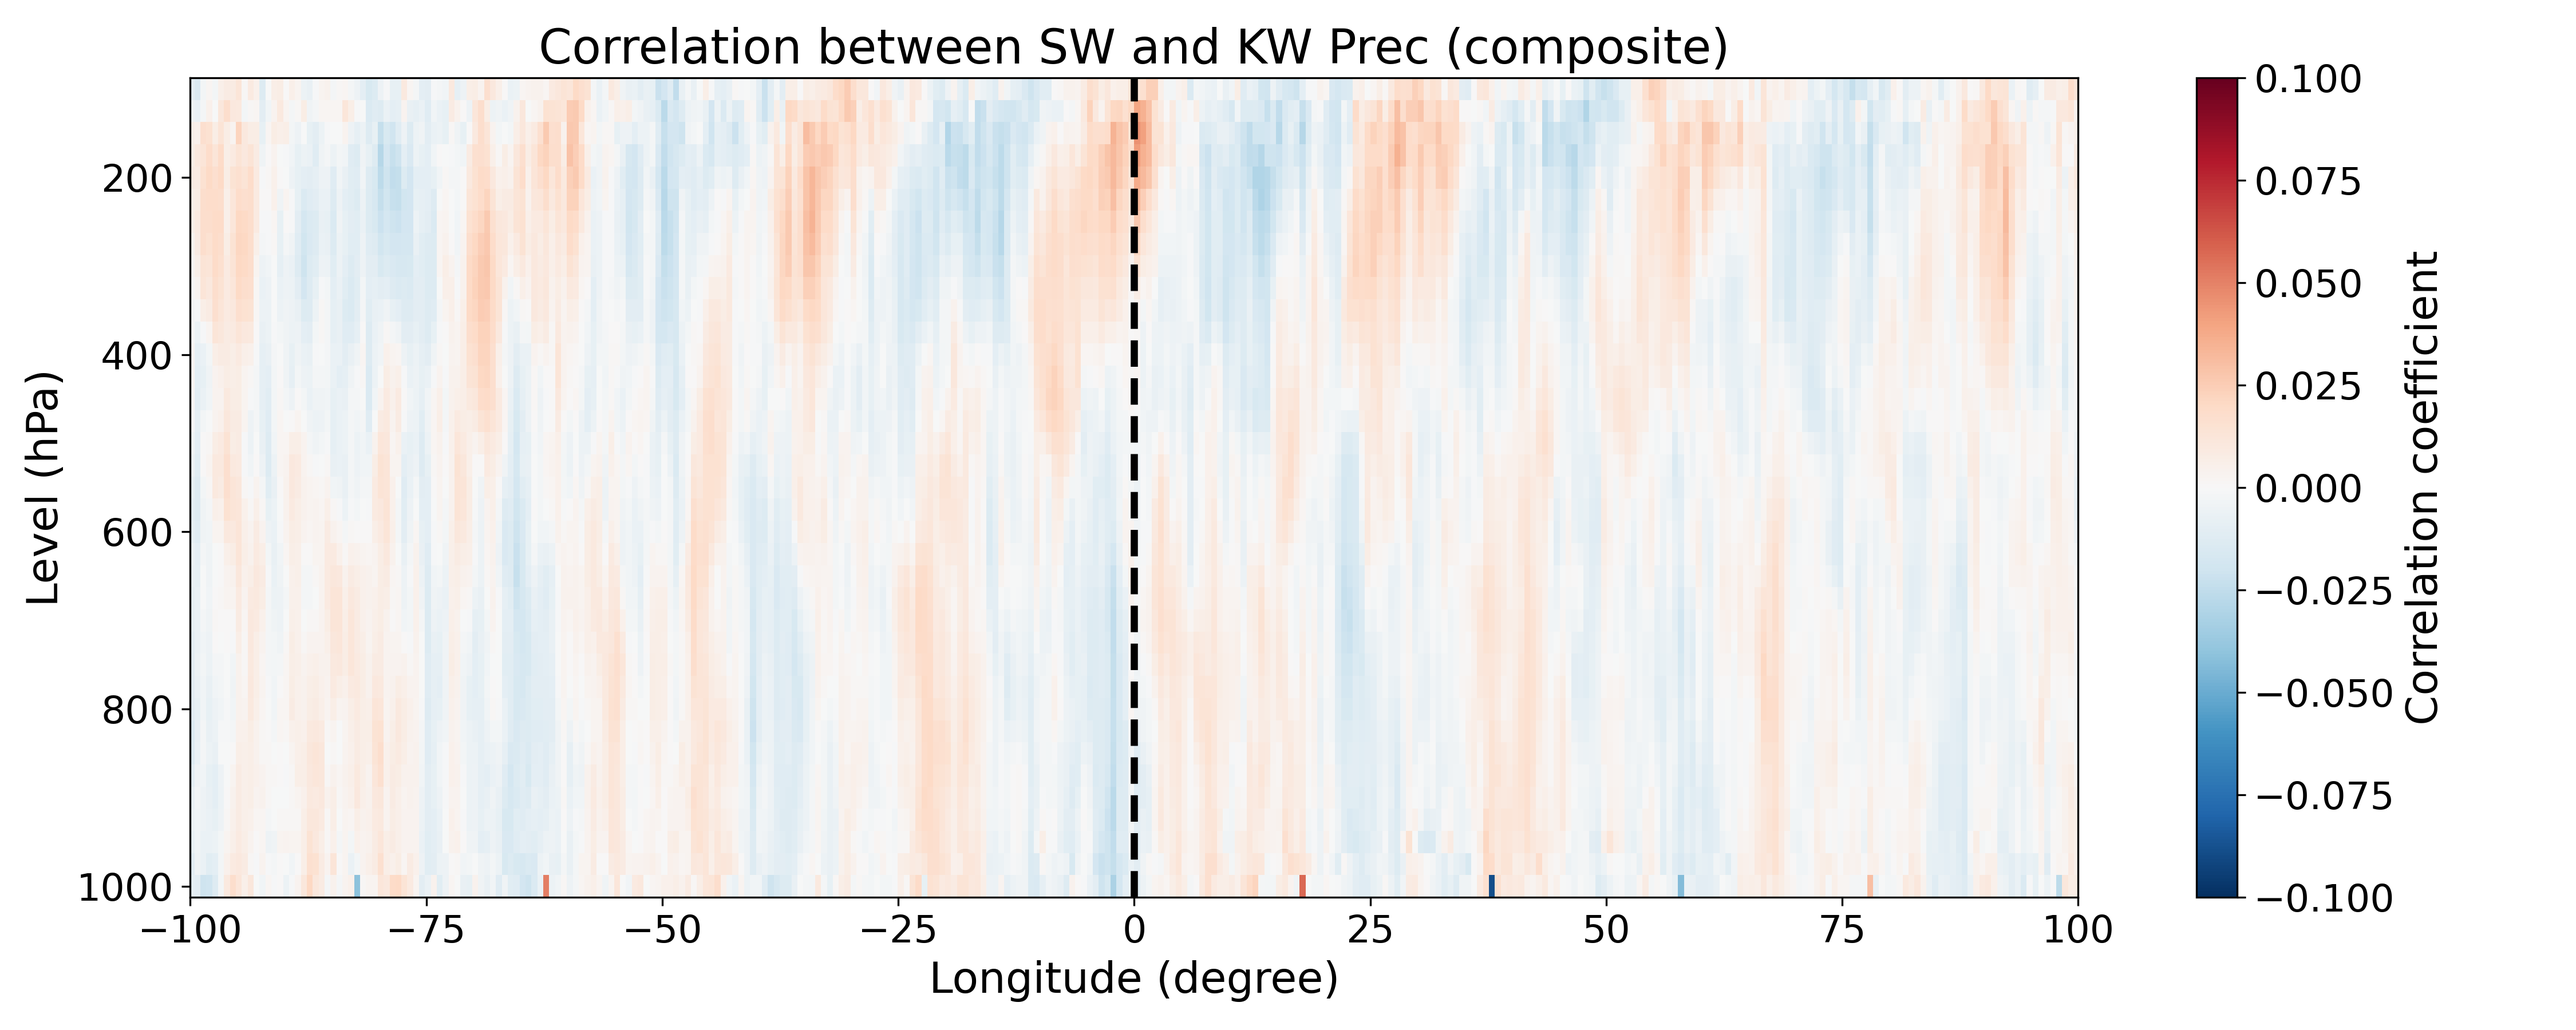
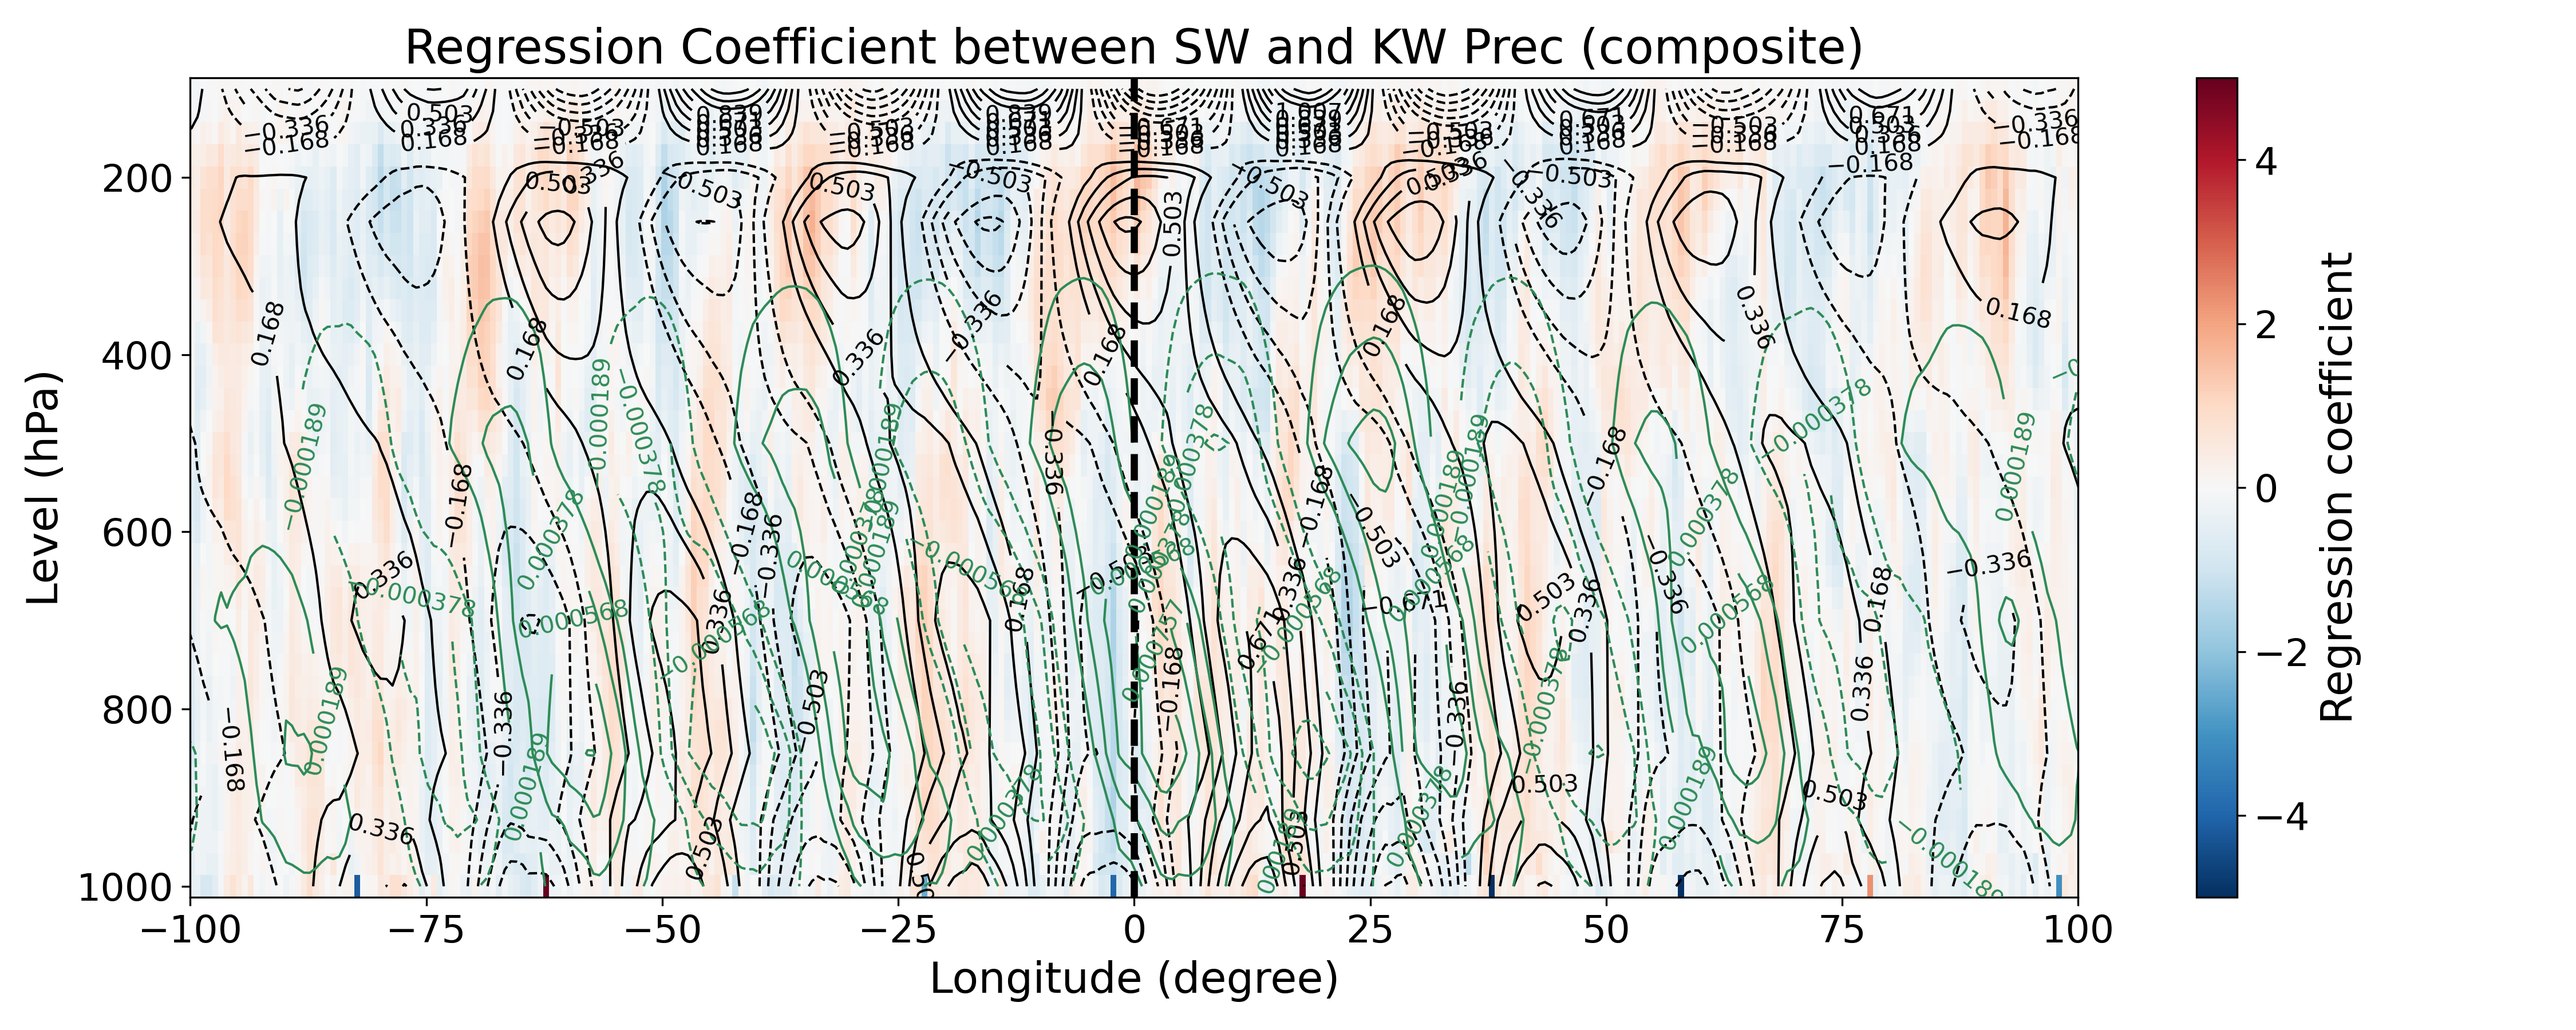
combine regression of t, q and radiative heating

diff --git a/Code/ERA5/corr_composite.py b/Code/ERA5/corr_composite.py
@@ -1,0 +1,128 @@
+# This program is to composite correlation coefficient of different reference longitude
+
+#####################
+# 1. impoert package
+#####################
+
+import os
+import sys
+import h5py
+import numpy as np
+import matplotlib.pyplot as plt
+
+from glob import glob
+from matplotlib.colors import TwoSlopeNorm
+
+# accept parameter from the system
+k_domains = (int(sys.argv[1]), int(sys.argv[2]))
+dis_type  = str(sys.argv[3])
+
+#####################
+# 2. load data
+#####################
+
+# load ERA5 regression coefficient
+PATH_INPUT = "/home/b11209013/2025_Research/Obs/Files/ERA5/reg/"
+
+FILES = glob(f"{PATH_INPUT}prec_{dis_type}_k_{k_domains[0]}_{k_domains[1]}_lon=*.h5")
+
+t_reg = []; q_reg = []
+
+for f in FILES:
+    with h5py.File(f, "r") as h:
+        t_reg.append(np.array(h.get("t_reg")))
+        q_reg.append(np.array(h.get("q_reg")))
+
+t_reg = np.nanmean(np.array(t_reg), axis=0)
+q_reg = np.nanmean(np.array(q_reg), axis=0)
+
+t_max = np.max(np.abs(t_reg))
+q_max = np.max(np.abs(q_reg))
+
+# load corresponding wave regression coefficient
+
+with h5py.File(f"/home/b11209013/2025_Research/Obs/Files/IMERG/Corr/corr_{dis_type}_k_{k_domains[0]}_{k_domains[1]}_composite.h5", "r") as f:
+    qlw_reg = np.array(f.get("qlw_reg"))
+    qsw_reg = np.array(f.get("qsw_reg"))
+
+######################
+# Plot figure
+######################
+
+lev = np.linspace(1000, 100, 37)
+lon = np.linspace(-180, 180, 576)
+
+t_level = np.linspace(-t_max, t_max, 21); t_level = t_level[~np.isclose(t_level, 0)]
+q_level = np.linspace(-q_max, q_max, 11); q_level = q_level[~np.isclose(q_level, 0)]
+
+plt.rcParams["font.family"] = "DejaVu Sans"
+# Original
+plt.figure(figsize=(15, 6))
+lw_cf = plt.pcolormesh(
+    lon, lev, qlw_reg,
+    cmap="RdBu_r",
+    norm=TwoSlopeNorm(vcenter=0, vmin=-5, vmax=5)
+    )
+t_lw = plt.contour(
+    lon, lev, t_reg,
+    colors="k", linewidths=1, levels=t_level
+)
+q_lw = plt.contour(
+    lon, lev, q_reg,
+    colors="seagreen", linewidths=1, levels=q_level
+)
+plt.xlim(-100, 100)
+plt.axvline(0, color="k", linewidth=3, linestyle="--")
+plt.xticks(fontsize=16)
+plt.yticks(fontsize=16)
+plt.xlabel("Longitude (degree)", fontsize=18)
+plt.ylabel("Level (hPa)", fontsize=18)
+plt.title(f"Regression Coefficient between LW and {dis_type.upper()} Prec (composite)", fontsize=20)
+plt.clabel(t_lw, inline=True, fontsize=10)
+plt.clabel(q_lw, inline=True, fontsize=10)
+plt.gca().invert_yaxis()
+cb = plt.colorbar(lw_cf)
+cb.ax.set_ylabel("Regression coefficient", fontsize=18)
+cb.ax.tick_params(labelsize=16)
+plt.tight_layout()
+plt.savefig(f"/home/b11209013/2025_Research/Obs/Figure/ERA5_reg/qlw_{dis_type}_k_{k_domains[0]}_{k_domains[1]}_compsite.png", dpi=300)
+plt.close()
+
+plt.figure(figsize=(15, 6))
+sw_cf = plt.pcolormesh(
+    lon, lev, qsw_reg,
+    cmap="RdBu_r",
+    norm=TwoSlopeNorm(vcenter=0, vmin=-5, vmax=5)
+    )
+t_sw = plt.contour(
+    lon, lev, t_reg,
+    colors="black", linewidths=1, levels=t_level
+)
+q_sw = plt.contour(
+    lon, lev, q_reg,
+    colors="seagreen", linewidths=1, levels=q_level
+)
+plt.xlim(-100, 100)
+plt.axvline(0, color="k", linewidth=3, linestyle="--")
+plt.xticks(fontsize=16)
+plt.yticks(fontsize=16)
+plt.xlabel("Longitude (degree)", fontsize=18)
+plt.ylabel("Level (hPa)", fontsize=18)
+plt.title(f"Regression Coefficient between SW and {dis_type.upper()} Prec (composite)", fontsize=20)
+plt.clabel(t_sw, inline=True, fontsize=10)
+plt.clabel(q_sw, inline=True, fontsize=10)
+plt.gca().invert_yaxis()
+cb = plt.colorbar(sw_cf)
+cb.ax.set_ylabel("Regression coefficient", fontsize=18)
+cb.ax.tick_params(labelsize=16)
+plt.tight_layout()
+plt.savefig(f"/home/b11209013/2025_Research/Obs/Figure/IMERG_corr/qsw_{dis_type}_k_{k_domains[0]}_{k_domains[1]}_compsite.png", dpi=300)
+plt.close()
+
+#####################
+# 3. save composited correlation
+#####################
+with h5py.File(f"{PATH_INPUT}corr_{dis_type}_k_{k_domains[0]}_{k_domains[1]}_composite.h5", "w") as h:
+
+    h.create_dataset("t_reg", data=t_reg)
+    h.create_dataset("q_reg", data=q_reg)

diff --git a/Code/ERA5/regress.py b/Code/ERA5/regress.py
@@ -6,12 +6,100 @@
 # Import package
 ##################
 
+import sys
+import h5py
 import numpy as np
 import xarray as xr
-from matplotlib import pyplot as plt;
+
+from glob import glob
+from tqdm import tqdm
+from matplotlib import pyplot as plt
+
+# accept parameters input from system
+PATH_WINDOW = str(sys.argv[1]) # input windowing file name
+central_lon = int(sys.argv[2]) # input longitude to be selected
 
 ####################
 # Load data
 ####################
 
+# Load filtered precipitation signal
+PATH_WORK = "/work/b11209013/2024_Research/ERA5/"
 
+with h5py.File(PATH_WINDOW, "r") as f:
+
+    lon_kw  = np.array(f.get("lon"))                       # longitude axis of reconstructed data
+    tar_idx = int(np.argmin(np.abs(lon_kw - central_lon))) # index of targeted longitude
+
+    idx_cen = lon_kw.size // 2                             # index of central point
+
+    prec    = np.array(f.get("prec"))[:,tar_idx]           # precipitation time series at given longitude
+
+prec = prec.astype(np.float32)
+
+split_fname = PATH_WINDOW.split("_")                       # split string with _
+
+wave_type   = split_fname[-4]                              # identify the file is for mjo or kw
+k_min       = split_fname[-2]                              # minimum of the k-window
+k_max       = split_fname[-1].split(".")[0]                # maximum of the k-window
+
+print("finish loading precipitation time series")
+
+# Load temperature and moisture from ERA5
+# load moisture
+with xr.open_dataset(PATH_WORK + "q/q_sub.nc", chunks={}) as ds:
+
+    lon_cen = (ds["lon"] - central_lon + 180) % 360 - 180
+    ds = ds.assign_coords(lon=lon_cen).sortby("lon")
+
+    lon_plot = ds["lon"].values                             # longitude for plotting 
+    q        = ds["q"].values.astype(np.float32)            # moisture
+
+nt, nz, nx = q.shape
+
+print("finish loading moisture")
+
+# load temperature
+with xr.open_dataset(PATH_WORK + "t/t_sub.nc", chunks={}) as ds:
+
+    lon_cen = (ds["lon"] - central_lon + 180) % 360 - 180
+    ds = ds.assign_coords(lon=lon_cen).sortby("lon")
+
+    t        = ds["t"].values.astype(np.float32)            # temperature
+
+print("finish loading temperature")
+
+#######################
+# Regress ERA5 respective to precipitation data
+#######################
+
+def regress_slope(x, y):
+
+    x = np.asarray(x)
+    y = np.asarray(y)
+
+    x_anom = x - x.mean()
+    y_anom = y - y.mean(axis=0)
+
+    beta   = np.sum(x_anom[:,None]*y_anom, axis=0) / np.sum(x_anom**2)
+
+    return beta
+
+t_reshape = t.reshape(nt, nz*nx)
+q_reshape = q.reshape(nt, nz*nx)
+
+# calculate regression coefficient between precipitation and temperature/moisture
+t_reg = regress_slope(prec, t_reshape).reshape(nz, nx)
+q_reg = regress_slope(prec, q_reshape).reshape(nz, nx)
+
+print("finish regression")
+
+###########################
+# save file
+###########################
+
+with h5py.File(f"/home/b11209013/2025_Research/Obs/Files/ERA5/reg/prec_{wave_type}_k_{k_min}_{k_max}_lon={central_lon}.h5", "w") as f:
+    f.create_dataset("t_reg", data=t_reg)
+    f.create_dataset("q_reg", data=q_reg)
+
+print("finish saving files")

diff --git a/Code/ERA5/sub_domain.py b/Code/ERA5/sub_domain.py
@@ -1,0 +1,31 @@
+#======================================================
+# This program is to extract the subdomain of ERA5 data
+#======================================================
+
+##################
+# Import package
+##################
+
+import xarray as xr
+
+##################
+# Load data
+##################
+
+with xr.open_dataset("/work/b11209013/2024_Research/ERA5/t/t_Itp.nc") as ds:
+    ds = ds.sel(
+        lat=slice(-10, 10),
+        time=slice("2006-01-01", "2017-12-31")
+    ).mean("lat")
+
+    ds.to_netcdf("/work/b11209013/2024_Research/ERA5/t/t_sub.nc")
+
+with xr.open_dataset("/work/b11209013/2024_Research/ERA5/q/q_Itp.nc") as ds:
+    ds = ds.sel(
+        lat=slice(-10, 10),
+        time=slice("2006-01-01", "2017-12-31")
+    ).mean("lat")
+
+    ds.to_netcdf("/work/b11209013/2024_Research/ERA5/q/q_sub.nc")
+
+
